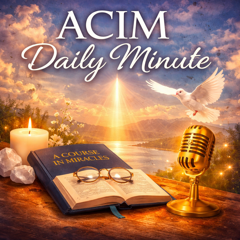
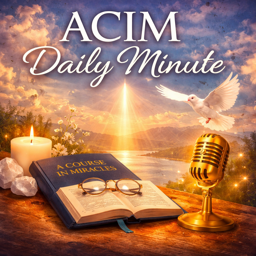
Rebuild home hero around the key-art wordmark
The refresh stacked an HTML "ACIM Daily Minute" headline over key art
that already carries its own painted wordmark, so every viewport showed
the title twice, and background-size:cover blew a low hero image up
until it blurred.

- Home hero: the painting's wordmark is the title; the HTML heading is
  now an sr-only <h1> for document structure. Compact art-led band with
  a scrim that stays clear over the painting and deepens behind the nav
  and the reading card. Portrait key art on phones so it never crops
  into a fragment of the baked text.
- hero-daily-minute.jpg: full-resolution, baked bottom banner cropped
  off; add hero-daily-minute-portrait.jpg for the mobile treatment.
- apps.html hero: text-free scenic crop of the same art so the page's
  own headline stands alone; refresh og:image dimensions.
- app-icon.png: use the real app icon instead of a 240px copy.
- Drop the now-unused .hero--full / .hero__brand / .hero__subtitle /
  .hero__scroll rules and the hero-bob keyframes.

Claude-Session: https://claude.ai/code/session_01VrQLLkN6srSc6vA3xbaVKw

diff --git a/docs/style.css b/docs/style.css
@@ -362,71 +362,6 @@ p {
     position: relative;
 }
 
-.hero--full {
-    min-height: 100vh;
-    display: flex;
-    flex-direction: column;
-    align-items: center;
-    justify-content: center;
-    padding: 5rem 1.5rem 3rem;
-}
-
-.hero__brand {
-    margin-bottom: 0.5rem;
-}
-
-.hero__brand-acim {
-    display: block;
-    font-family: var(--font-serif);
-    font-size: clamp(2.5rem, 8vw, 4rem);
-    font-weight: 800;
-    color: var(--color-gold);
-    letter-spacing: 4px;
-    text-shadow: 0 2px 20px var(--color-gold-glow);
-}
-
-.hero__brand-daily {
-    display: block;
-    font-family: var(--font-serif);
-    font-size: clamp(1.6rem, 5vw, 2.5rem);
-    font-style: italic;
-    color: var(--color-text-bright);
-    text-shadow: 0 2px 15px rgba(0, 0, 0, 0.5);
-    margin-top: -0.25rem;
-}
-
-.hero__subtitle {
-    font-family: var(--font-serif);
-    font-style: italic;
-    font-size: 1.05rem;
-    color: var(--color-text);
-    margin-top: 1rem;
-    max-width: 500px;
-    line-height: 1.6;
-    text-shadow: 0 1px 8px rgba(0, 0, 0, 0.4);
-}
-
-.hero__scroll {
-    position: absolute;
-    bottom: 1.5rem;
-    left: 50%;
-    transform: translateX(-50%);
-    color: rgba(255, 255, 255, 0.4);
-    font-size: 0.75rem;
-    text-align: center;
-    animation: hero-bob 2s ease-in-out infinite;
-}
-
-.hero__scroll-arrow {
-    font-size: 1.2rem;
-    margin-top: 0.15rem;
-}
-
-@keyframes hero-bob {
-    0%, 100% { transform: translateX(-50%) translateY(0); }
-    50%      { transform: translateX(-50%) translateY(6px); }
-}
-
 
 /* ============================================================
    9. GLASS CARDS
@@ -1555,23 +1490,54 @@ p {
 
 /* ============================================================
    28. PHOTO HERO (Home)
-   Photographic key art behind the wordmark. The CSS gradient
-   remains as the load-time and fallback layer beneath it.
+   The key-art painting carries its own "ACIM Daily Minute"
+   wordmark, so it stands in for the page title (an sr-only
+   <h1> keeps the document outline intact). A scrim that stays
+   clear across the upper painting and deepens toward the base
+   protects the nav and the reading card. The CSS gradient is
+   the load-time and fallback layer beneath.
    ============================================================ */
 
 .hero--photo {
+    min-height: clamp(600px, 74vh, 780px);
+    display: flex;
+    flex-direction: column;
+    justify-content: flex-end;
+    padding: 5rem 1.5rem 3.5rem;
     background:
         linear-gradient(180deg,
-            rgba(13, 12, 19, 0.58) 0%,
-            rgba(13, 12, 19, 0.34) 45%,
-            rgba(13, 12, 19, 0.80) 100%),
-        url("assets/hero-daily-minute.jpg") center 60% / cover no-repeat,
+            rgba(13, 12, 19, 0.22) 0%,
+            rgba(13, 12, 19, 0) 24%,
+            rgba(13, 12, 19, 0) 44%,
+            rgba(13, 12, 19, 0.32) 60%,
+            rgba(13, 12, 19, 0.68) 81%,
+            rgba(13, 12, 19, 0.95) 100%),
+        url("assets/hero-daily-minute.jpg") center top / cover no-repeat,
         var(--hero-gradient);
 }
 
-.hero--photo .hero__subtitle,
-.hero--photo .hero__brand-daily {
-    color: var(--color-text-bright);
+.hero--photo .glass-card {
+    margin: 0 auto;
+    background: rgba(13, 12, 19, 0.58);
+    border-color: rgba(212, 175, 55, 0.30);
+    box-shadow: 0 30px 70px -28px rgba(0, 0, 0, 0.75);
+}
+
+@media (max-width: 768px) {
+    .hero--photo {
+        min-height: min(86vh, 680px);
+        padding: 3.5rem 1.15rem 2.25rem;
+        background:
+            linear-gradient(180deg,
+                rgba(13, 12, 19, 0.14) 0%,
+                rgba(13, 12, 19, 0) 30%,
+                rgba(13, 12, 19, 0) 48%,
+                rgba(13, 12, 19, 0.34) 62%,
+                rgba(13, 12, 19, 0.70) 82%,
+                rgba(13, 12, 19, 0.96) 100%),
+            url("assets/hero-daily-minute-portrait.jpg") center top / cover no-repeat,
+            var(--hero-gradient);
+    }
 }
 
 
@@ -1673,14 +1639,14 @@ p {
 
 .apps-hero {
     text-align: center;
-    padding: 4.5rem 1.5rem;
+    padding: 5rem 1.5rem 4.5rem;
     border-bottom: 1px solid var(--color-border-dim);
     background:
         linear-gradient(180deg,
-            rgba(13, 12, 19, 0.48) 0%,
-            rgba(13, 12, 19, 0.66) 55%,
+            rgba(13, 12, 19, 0.44) 0%,
+            rgba(13, 12, 19, 0.62) 55%,
             rgba(13, 12, 19, 0.90) 100%),
-        url("assets/apps-hero.jpg") center 58% / cover no-repeat,
+        url("assets/apps-hero.jpg") center 62% / cover no-repeat,
         var(--hero-gradient);
 }
 

diff --git a/docs/index.html b/docs/index.html
@@ -74,12 +74,8 @@
 </div>
 
 <!-- Hero -->
-<section id="main-content" class="hero hero--full hero--photo">
-    <div class="hero__brand">
-        <span class="hero__brand-acim">ACIM</span>
-        <span class="hero__brand-daily">Daily Minute</span>
-    </div>
-    <p class="hero__subtitle">Daily Readings from A Course in Miracles</p>
+<section id="main-content" class="hero hero--photo">
+    <h1 class="sr-only">ACIM Daily Minute — daily readings from A Course in Miracles</h1>
 
     <!-- Today's Reading Teaser -->
     <div class="glass-card">
@@ -90,11 +86,6 @@
         <div class="glass-card__actions">
             <a href="daily-minute.html" class="btn btn--ghost-light">Read More</a>
         </div>
-    </div>
-
-    <div class="hero__scroll">
-        <div>Explore</div>
-        <div class="hero__scroll-arrow">&#8964;</div>
     </div>
 </section>
 

diff --git a/docs/apps.html b/docs/apps.html
@@ -20,8 +20,8 @@
     <meta property="og:url" content="https://acimdailyminute.org/apps.html">
     <meta property="og:site_name" content="ACIM Daily Minute">
     <meta property="og:image" content="https://acimdailyminute.org/assets/apps-hero.jpg">
-    <meta property="og:image:width" content="1680">
-    <meta property="og:image:height" content="521">
+    <meta property="og:image:width" content="1920">
+    <meta property="og:image:height" content="452">
 
     <!-- Twitter Card Tags -->
     <meta name="twitter:card" content="summary_large_image">
